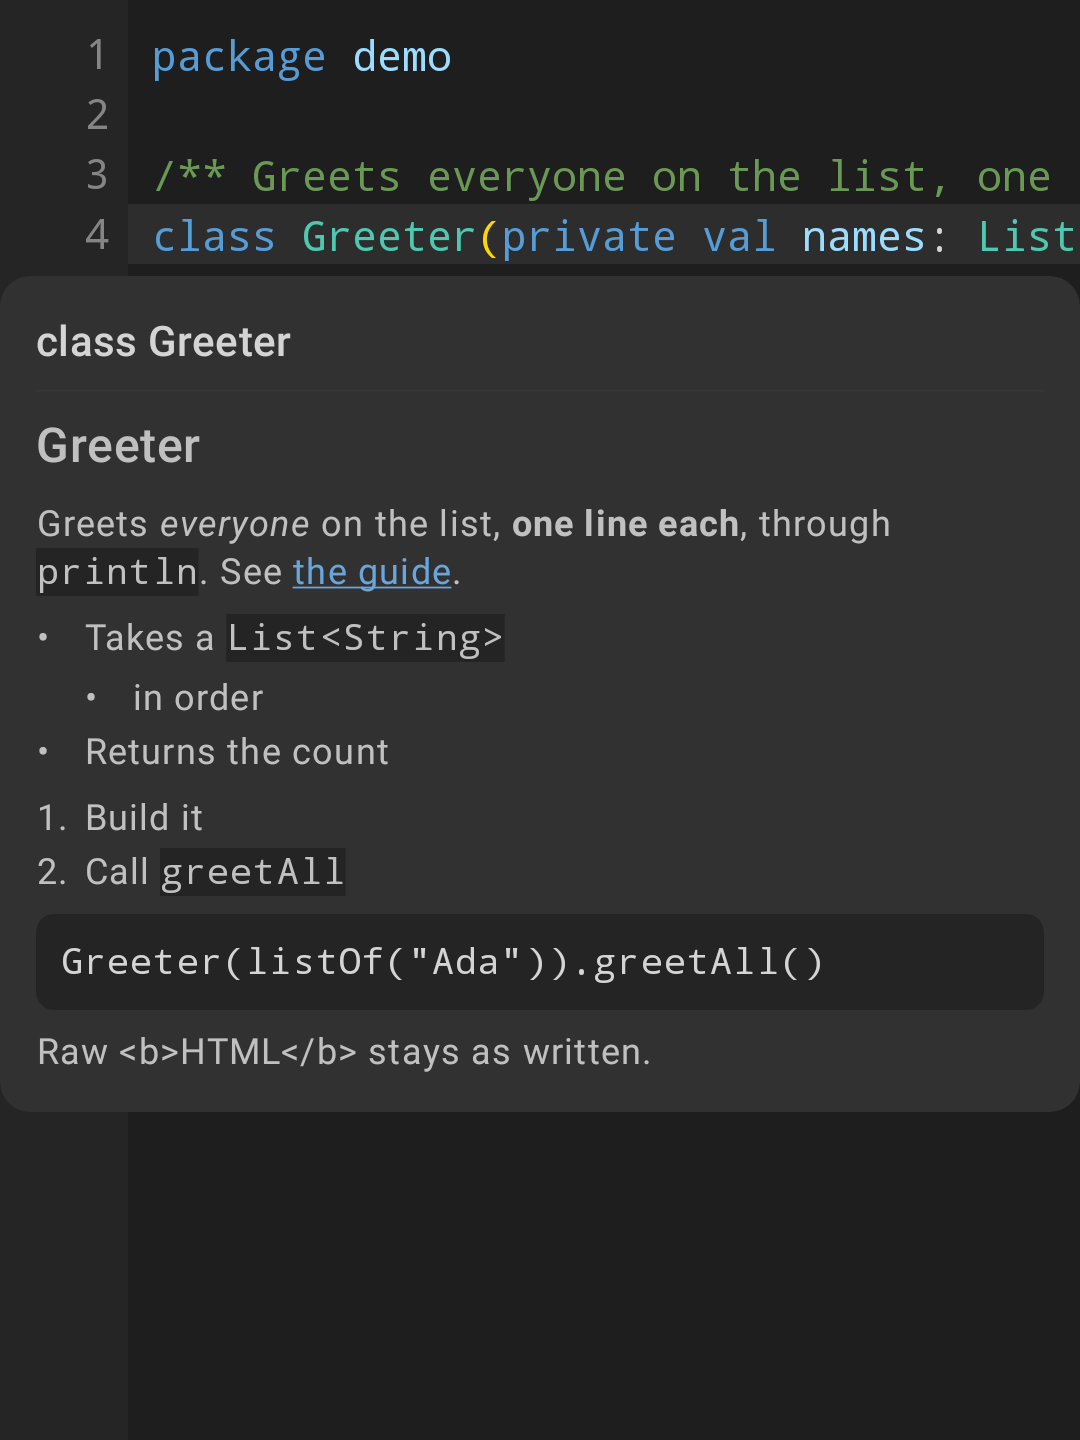
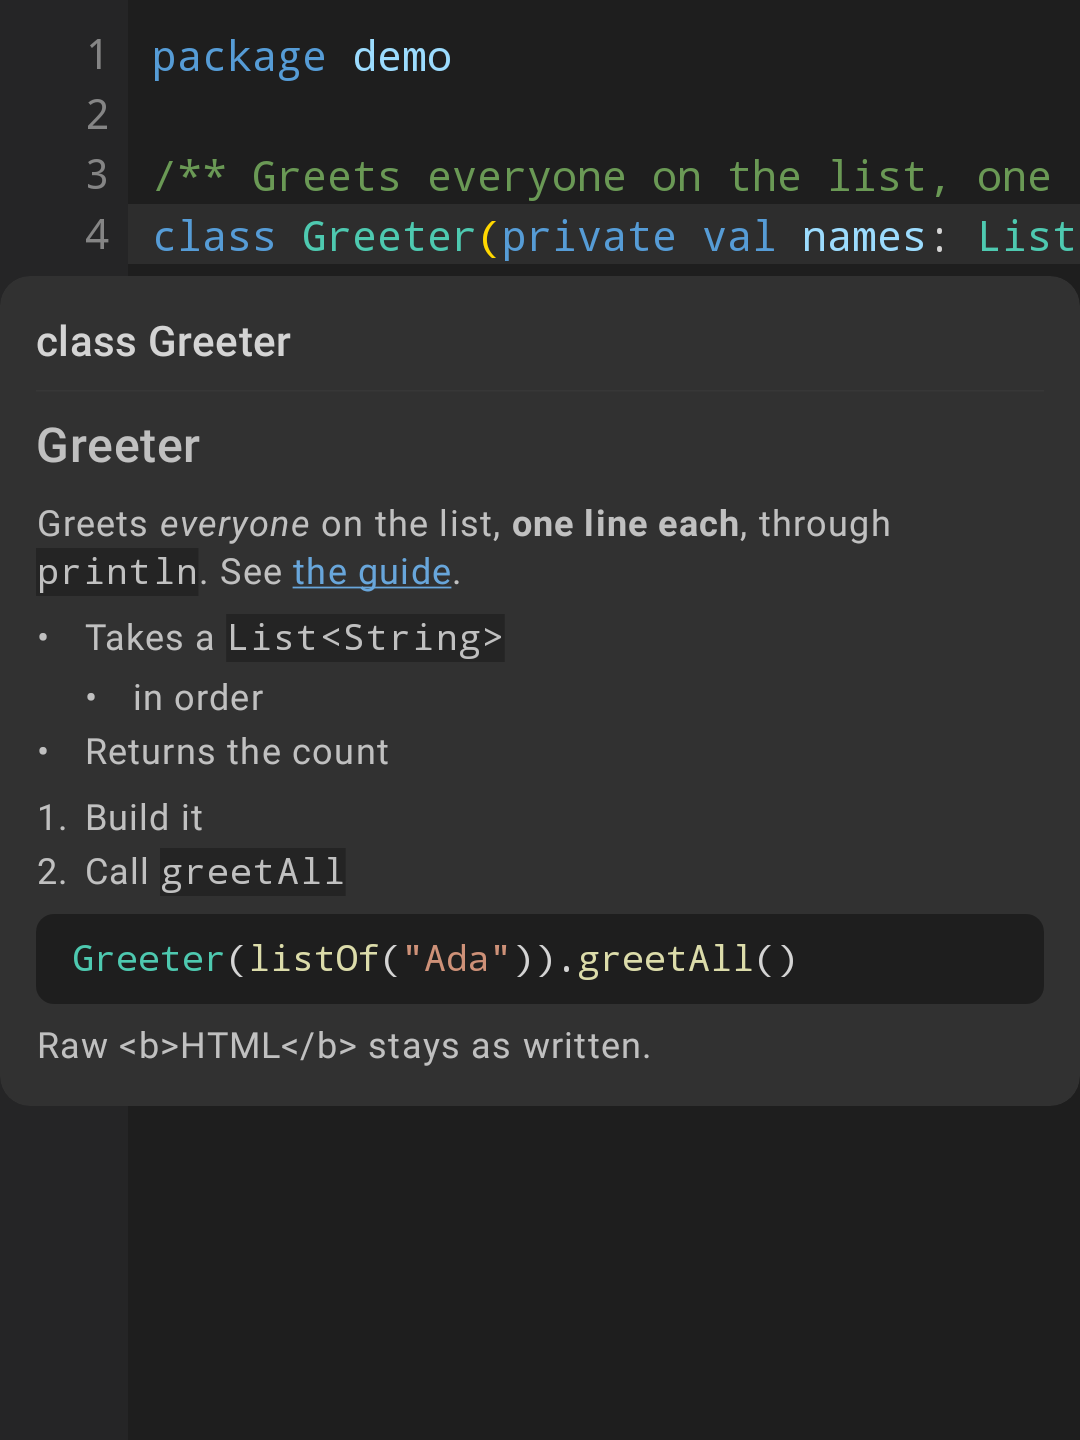
test(sample): add a completion detail scene and colour the hover's fence
The pane is internal and Android's layout never shows it, so its scene composes
CompletionPopup directly, in a window the size of a small desktop one. That
takes an INVISIBLE_REFERENCE suppression in that one test file, and keeps the
scene under verifyRoborazziDebug with no new dependency.

The hover scene now provides LocalCodeFenceTokenizers and waits for the fence's
colours, which arrive off the main thread, so its baseline is re-recorded: code
in documentation is drawn by CodeBlock now.

CodeBlock's choice of cooperative tokenizing moves to tokensOf, because that
branch runs only on wasm, where nothing composes in a test. The new tests also
cover it, and the pane's return to the top for each item.

Changed region(s): [[0.0611, 0.6562, 0.7639, 0.6875], [0.0306, 0.7188, 0.6111, 0.75]]

diff --git a/sample/src/test/java/com/aardarch/aardink/sample/screenshots/CompletionDetailScreenshotTest.kt b/sample/src/test/java/com/aardarch/aardink/sample/screenshots/CompletionDetailScreenshotTest.kt
@@ -1,0 +1,153 @@
+/*
+ * Copyright 2026 Aardarch
+ *
+ * Licensed under the Apache License, Version 2.0 (the "License");
+ * you may not use this file except in compliance with the License.
+ * You may obtain a copy of the License at
+ *
+ *     https://www.apache.org/licenses/LICENSE-2.0
+ *
+ * Unless required by applicable law or agreed to in writing, software
+ * distributed under the License is distributed on an "AS IS" BASIS,
+ * WITHOUT WARRANTIES OR CONDITIONS OF ANY KIND, either express or implied.
+ * See the License for the specific language governing permissions and
+ * limitations under the License.
+ */
+// The pane is internal and belongs to desktop and the web, so Android's own CodeEditorLayout never
+// shows it: reaching CompletionPopup directly is how it gets under this repo's one screenshot gate.
+@file:Suppress("INVISIBLE_MEMBER", "INVISIBLE_REFERENCE")
+
+package com.aardarch.aardink.sample.screenshots
+
+import androidx.compose.foundation.layout.Box
+import androidx.compose.foundation.layout.fillMaxSize
+import androidx.compose.material3.MaterialTheme
+import androidx.compose.runtime.CompositionLocalProvider
+import androidx.compose.ui.Modifier
+import androidx.compose.ui.geometry.Rect
+import androidx.compose.ui.platform.LocalDensity
+import androidx.compose.ui.semantics.SemanticsProperties
+import androidx.compose.ui.test.hasText
+import androidx.compose.ui.test.junit4.createComposeRule
+import androidx.compose.ui.unit.dp
+import com.aardarch.aardink.core.CodeEditorState
+import com.aardarch.aardink.core.CompletionItem
+import com.aardarch.aardink.core.CompletionKind
+import com.aardarch.aardink.languages.LanguageRegistry
+import com.aardarch.aardink.ui.CodeEditorLayout
+import com.aardarch.aardink.ui.CompletionPopup
+import com.aardarch.aardink.ui.EditorThemes
+import com.aardarch.aardink.ui.KeyboardToolbarPlacement
+import com.aardarch.aardink.ui.LocalCodeFenceTokenizers
+import com.aardarch.aardink.ui.LocalEditorTheme
+import com.dropbox.differ.SimpleImageComparator
+import com.github.takahirom.roborazzi.ExperimentalRoborazziApi
+import com.github.takahirom.roborazzi.RoborazziOptions
+import com.github.takahirom.roborazzi.captureScreenRoboImage
+import kotlinx.coroutines.Dispatchers
+import org.junit.Rule
+import org.junit.Test
+import org.junit.runner.RunWith
+import org.robolectric.RobolectricTestRunner
+import org.robolectric.annotation.Config
+import org.robolectric.annotation.GraphicsMode
+
+private const val FENCE = """Greeter(listOf("Ada")).greetAll()"""
+
+/**
+ * The completion list with the pane beside it, in a window the size of a small desktop one, under
+ * `screenshots/scene-completion-detail.png`.
+ */
+@RunWith(RobolectricTestRunner::class)
+@GraphicsMode(GraphicsMode.Mode.NATIVE)
+@Config(sdk = [34], qualifiers = "w960dp-h480dp-xhdpi")
+class CompletionDetailScreenshotTest {
+
+    @get:Rule
+    val composeTestRule = createComposeRule()
+
+    private val registry = LanguageRegistry.withBuiltIns()
+
+    private val options = RoborazziOptions(
+        compareOptions = RoborazziOptions.CompareOptions(imageComparator = SimpleImageComparator(maxDistance = 0.04f)),
+    )
+
+    private val code = """
+        |class Greeter(private val names: List<String>) {
+        |    fun greetAll(prefix: String = "Hello"): Int {
+        |        return names.size
+        |    }
+        |}
+        |
+        |fun main() {
+        |    val greeter = Greeter(listOf("Ada", "Grace"))
+        |    greeter.gre
+        |}
+    """.trimMargin()
+
+    private val items = listOf(
+        CompletionItem(
+            label = "greetAll",
+            kind = CompletionKind.Method,
+            insertText = "greetAll()",
+            detail = "fun greetAll(prefix: String = \"Hello\"): Int",
+            documentation = """
+                |Greets *everyone* on the list, **one line each**, and says how many there were.
+                |
+                |- Takes the greeting as `prefix`
+                |- See [the guide](https://example.invalid/guide)
+                |
+                |```kotlin
+                |$FENCE
+                |```
+            """.trimMargin(),
+        ),
+        CompletionItem("greeted", CompletionKind.Property, "greeted", detail = "val greeted: Int"),
+        CompletionItem("greetOne", CompletionKind.Method, "greetOne()", documentation = "Greets the first name only."),
+    )
+
+    @OptIn(ExperimentalRoborazziApi::class)
+    @Test
+    fun completionDetail() {
+        val kotlin = registry.byId("kotlin")!!
+        val state = CodeEditorState(initialText = code, tokenizer = kotlin.tokenizer, tokenizeDebounceMs = 0).apply {
+            computeDispatcher = Dispatchers.Unconfined
+        }
+        composeTestRule.setContent {
+            MaterialTheme {
+                CompositionLocalProvider(
+                    LocalEditorTheme provides EditorThemes.VsCodeDark,
+                    LocalCodeFenceTokenizers provides { registry.byId(it)?.tokenizer },
+                ) {
+                    Box(Modifier.fillMaxSize()) {
+                        CodeEditorLayout(
+                            state = state,
+                            keyboardToolbarPlacement = KeyboardToolbarPlacement.Hidden,
+                            modifier = Modifier.fillMaxSize(),
+                        )
+                        val caret = with(LocalDensity.current) { Rect(168.dp.toPx(), 170.dp.toPx(), 170.dp.toPx(), 190.dp.toPx()) }
+                        CompletionPopup(
+                            anchor = caret,
+                            items = items,
+                            selected = 0,
+                            onAccept = {},
+                            onDismiss = {},
+                            resolve = { it },
+                            // A link only looks like one with somewhere to go.
+                            onOpenLink = {},
+                        )
+                    }
+                }
+            }
+        }
+        composeTestRule.mainClock.advanceTimeBy(1_000)
+        // The fence is coloured off the main thread, which the test clock does not wait for.
+        composeTestRule.waitUntil(timeoutMillis = 10_000) {
+            composeTestRule.onAllNodes(hasText(FENCE)).fetchSemanticsNodes().any { node ->
+                node.config[SemanticsProperties.Text].single().spanStyles.isNotEmpty()
+            }
+        }
+        composeTestRule.waitForIdle()
+        captureScreenRoboImage("../screenshots/scene-completion-detail.png", roborazziOptions = options)
+    }
+}

diff --git a/sample/src/test/java/com/aardarch/aardink/sample/screenshots/EditorSceneScreenshotTest.kt b/sample/src/test/java/com/aardarch/aardink/sample/screenshots/EditorSceneScreenshotTest.kt
@@ -25,7 +25,9 @@ import androidx.compose.runtime.CompositionLocalProvider
 import androidx.compose.ui.Modifier
 import androidx.compose.ui.graphics.Color
 import androidx.compose.ui.semantics.SemanticsActions
+import androidx.compose.ui.semantics.SemanticsProperties
 import androidx.compose.ui.test.hasSetTextAction
+import androidx.compose.ui.test.hasText
 import androidx.compose.ui.test.junit4.createComposeRule
 import androidx.compose.ui.test.onRoot
 import androidx.compose.ui.test.performSemanticsAction
@@ -50,6 +52,7 @@ import com.aardarch.aardink.ui.CodeEditorLayout
 import com.aardarch.aardink.ui.EditorOptions
 import com.aardarch.aardink.ui.EditorThemes
 import com.aardarch.aardink.ui.KeyboardToolbarPlacement
+import com.aardarch.aardink.ui.LocalCodeFenceTokenizers
 import com.aardarch.aardink.ui.LocalEditorTheme
 import com.aardarch.aardink.ui.RenderWhitespace
 import com.aardarch.aardink.ui.fromColorScheme
@@ -429,6 +432,7 @@ class EditorSceneScreenshotTest {
     fun markdownHover() {
         // Hover on Greeter, through the editor's own command: a heading, emphasis, inline code, a
         // nested list, a fence and a link. The card is a popup, so the capture is of the screen.
+        val fence = """Greeter(listOf("Ada")).greetAll()"""
         val documented = object : LanguageService by kotlin.languageService!! {
             override suspend fun hoverDoc(document: CodeDocument, offset: Int) = HoverDoc(
                 title = "class Greeter",
@@ -445,7 +449,7 @@ class EditorSceneScreenshotTest {
                     |2. Call `greetAll`
                     |
                     |```kotlin
-                    |Greeter(listOf("Ada")).greetAll()
+                    |$fence
                     |```
                     |
                     |Raw <b>HTML</b> stays as written.
@@ -456,7 +460,10 @@ class EditorSceneScreenshotTest {
         state.selection = TextRange(state.document.text.indexOf("Greeter") + 2)
         composeTestRule.setContent {
             MaterialTheme {
-                CompositionLocalProvider(LocalEditorTheme provides EditorThemes.VsCodeDark) {
+                CompositionLocalProvider(
+                    LocalEditorTheme provides EditorThemes.VsCodeDark,
+                    LocalCodeFenceTokenizers provides { if (it == "kotlin") kotlin.tokenizer else null },
+                ) {
                     CodeEditorLayout(
                         state = state,
                         languageService = documented,
@@ -472,6 +479,12 @@ class EditorSceneScreenshotTest {
         composeTestRule.waitForIdle()
         composeTestRule.runOnUiThread { state.execute(EditorCommand.ShowHover) }
         composeTestRule.mainClock.advanceTimeBy(1_000)
+        // The fence is coloured off the main thread, which the test clock does not wait for.
+        composeTestRule.waitUntil(timeoutMillis = 10_000) {
+            composeTestRule.onAllNodes(hasText(fence)).fetchSemanticsNodes().any { node ->
+                node.config[SemanticsProperties.Text].single().spanStyles.isNotEmpty()
+            }
+        }
         composeTestRule.waitForIdle()
         captureScreenRoboImage("../screenshots/scene-markdown-hover.png", roborazziOptions = options)
     }

diff --git a/editor/src/commonTest/kotlin/com/aardarch/aardink/ui/CodeTokenizerTest.kt b/editor/src/commonTest/kotlin/com/aardarch/aardink/ui/CodeTokenizerTest.kt
@@ -18,6 +18,7 @@ package com.aardarch.aardink.ui
 import com.aardarch.aardink.core.IncrementalTokenizer
 import com.aardarch.aardink.core.PlainTextTokenizer
 import com.aardarch.aardink.core.Token
+import kotlinx.coroutines.test.runTest
 import kotlin.test.Test
 import kotlin.test.assertEquals
 import kotlin.test.assertSame
@@ -64,6 +65,38 @@ class CodeTokenizerTest {
     @Test
     fun `no tag and no document is plain`() {
         assertSame(PlainTextTokenizer, codeTokenizer(null, { tagged }, null))
+    }
+
+    private class Paced : IncrementalTokenizer {
+        val calls = ArrayList<String>()
+
+        override fun tokenizeFull(text: String): List<Token> {
+            calls += "full"
+            return emptyList()
+        }
+
+        override suspend fun tokenizeFullCooperative(text: String): List<Token> {
+            calls += "cooperative"
+            return emptyList()
+        }
+
+        override fun tokenizeLines(text: String, dirtyRange: IntRange, previousTokens: List<Token>): List<Token> = emptyList()
+
+        override fun canSpanLines(lineIndex: Int, tokens: List<Token>): Boolean = false
+    }
+
+    @Test
+    fun `code is tokenized in slices where compute shares the main thread`() = runTest {
+        val tokenizer = Paced()
+        tokensOf("x", tokenizer, cooperative = true)
+        assertEquals(listOf("cooperative"), tokenizer.calls)
+    }
+
+    @Test
+    fun `code is tokenized at once where compute has its own thread`() = runTest {
+        val tokenizer = Paced()
+        tokensOf("x", tokenizer, cooperative = false)
+        assertEquals(listOf("full"), tokenizer.calls)
     }
 
     private fun codeTokenizer(language: String?, byLanguage: (String) -> IncrementalTokenizer?) =

diff --git a/editor/src/commonMain/kotlin/com/aardarch/aardink/ui/CodeBlock.kt b/editor/src/commonMain/kotlin/com/aardarch/aardink/ui/CodeBlock.kt
@@ -71,10 +71,7 @@ fun CodeBlock(text: String, tokenizer: IncrementalTokenizer, modifier: Modifier 
     val typography = LocalEditorTypography.current
     var tokens by remember(text, tokenizer) { mutableStateOf<List<Token>?>(null) }
     LaunchedEffect(text, tokenizer) {
-        tokens = withContext(EditorDispatchers.compute) {
-            // Documentation shows one of these per selected completion: keep the web's one thread free.
-            if (EditorDispatchers.computeIsMainThread) tokenizer.tokenizeFullCooperative(text) else tokenizer.tokenizeFull(text)
-        }
+        tokens = withContext(EditorDispatchers.compute) { tokensOf(text, tokenizer) }
     }
     val resolver = remember(theme) { TokenStyleResolver(theme) }
     val styled = remember(text, tokens, resolver) { highlighted(text, tokens.orEmpty(), resolver) }
@@ -97,6 +94,13 @@ fun CodeBlock(text: String, tokenizer: IncrementalTokenizer, modifier: Modifier 
         )
     }
 }
+
+/** [text]'s tokens, in slices where [cooperative]: documentation shows a block per selected completion, on the web's one thread. */
+internal suspend fun tokensOf(
+    text: String,
+    tokenizer: IncrementalTokenizer,
+    cooperative: Boolean = EditorDispatchers.computeIsMainThread,
+): List<Token> = if (cooperative) tokenizer.tokenizeFullCooperative(text) else tokenizer.tokenizeFull(text)
 
 /** [text] with each token's colour and font style, as the editor draws them. */
 internal fun highlighted(text: String, tokens: List<Token>, resolver: TokenStyleResolver): AnnotatedString = buildAnnotatedString {

diff --git a/editor/src/jvmTest/kotlin/com/aardarch/aardink/ui/CompletionDetailUiTest.kt b/editor/src/jvmTest/kotlin/com/aardarch/aardink/ui/CompletionDetailUiTest.kt
@@ -155,6 +155,21 @@ class CompletionDetailUiTest {
     }
 
     @Test
+    fun `each item's documentation starts at its top, however far the last was scrolled`() = runComposeUiTest {
+        val long = (1..40).joinToString("\n\n") { "Paragraph $it." }
+        show(listOf(word("first", documentation = "First. $long"), word("second", documentation = "Second. $long")))
+        val top = inPane("First. Paragraph 1.").fetchSemanticsNode().boundsInWindow.top
+        onNodeWithTag(EditorTestTags.COMPLETION_DETAIL).performMouseInput {
+            moveTo(center)
+            scroll(10f)
+        }
+        waitForIdle()
+        assertTrue(inPane("First. Paragraph 1.").fetchSemanticsNode().boundsInWindow.top < top, "the pane scrolled")
+        keys { pressKey(Key.DirectionDown) }
+        assertEquals(top, inPane("Second. Paragraph 1.").fetchSemanticsNode().boundsInWindow.top)
+    }
+
+    @Test
     fun `the pane goes with the list`() = runComposeUiTest {
         show(listOf(alpha))
         keys { pressKey(Key.Escape) }
